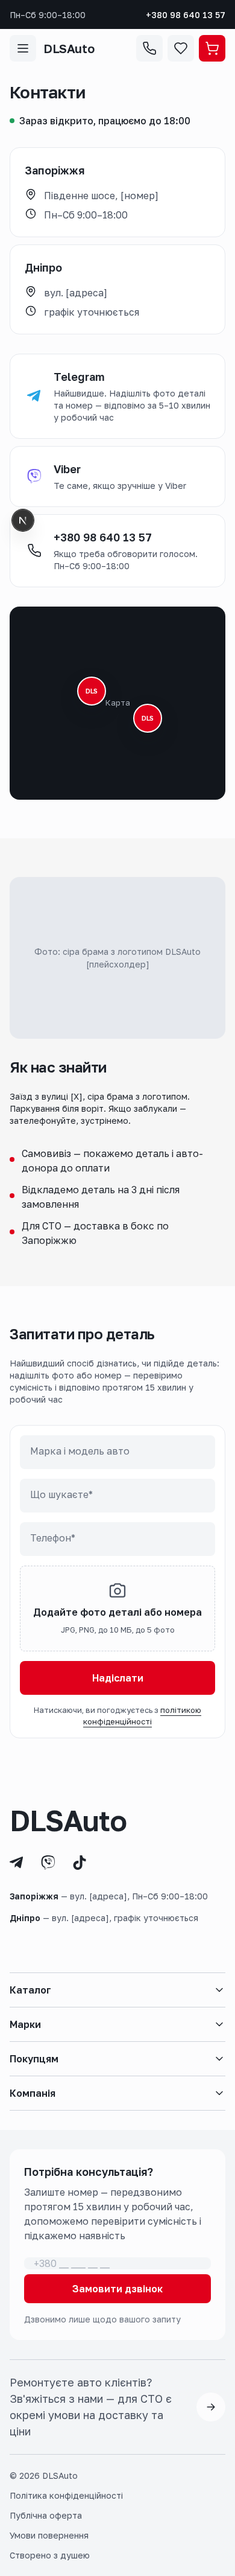
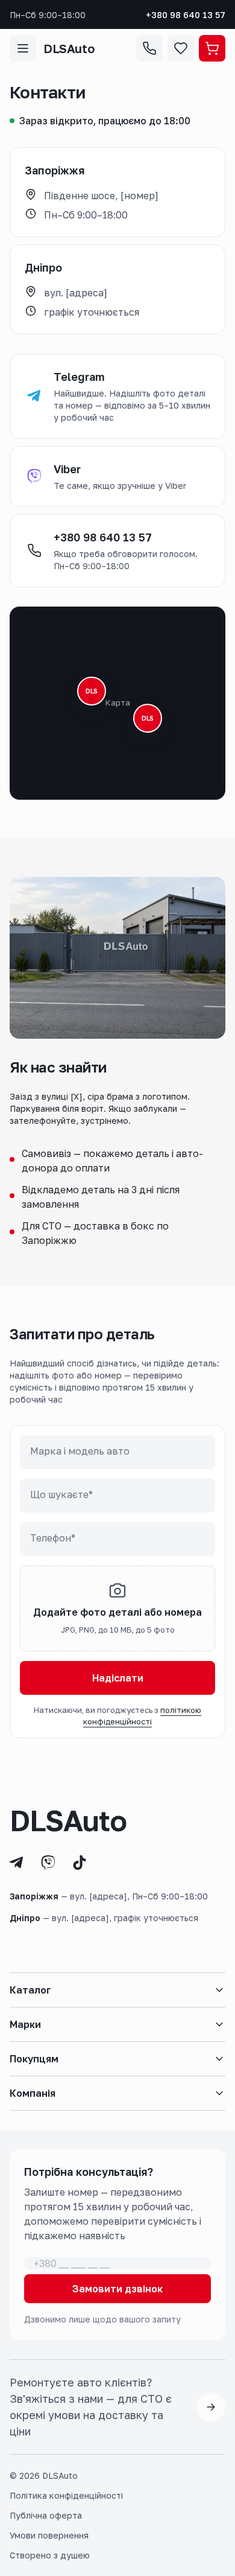
feat(contacts): use the real gate photo in "Як нас знайти"
The export's media is stored in Git LFS; the working copy only had 131-byte
pointers until `git lfs pull`. Materialise contacts-gate.jpg, copy it into
public/images (a normal blob per .gitattributes) and render it with next/image.
Regenerate the compare screenshots.

Changed region(s): [[0.0308, 0.3428, 0.9846, 0.4051], [0.0615, 0.187, 0.1538, 0.2181]]

diff --git a/src/app/(frontend)/[locale]/contacts/page.tsx b/src/app/(frontend)/[locale]/contacts/page.tsx
@@ -1,4 +1,5 @@
 import type { Metadata } from 'next'
+import Image from 'next/image'
 import { notFound } from 'next/navigation'
 
 import { ContactForm } from '@/components/blocks/ContactForm'
@@ -118,11 +119,13 @@ export default async function ContactsPage({ params }: { params: Promise<{ local
                 className="relative overflow-hidden"
                 style={{ aspectRatio: '4 / 3', borderRadius: 'var(--radius-lg)', background: 'var(--color-neutral-200)' }}
               >
-                <div className="absolute inset-0 flex items-center justify-center text-center" style={{ padding: 'var(--space-24)' }}>
-                  <span style={{ fontSize: 'var(--text-14)', color: 'var(--color-neutral-500)' }}>
-                    Фото: сіра брама з логотипом DLSAuto [плейсхолдер]
-                  </span>
-                </div>
+                <Image
+                  src="/images/contacts-gate.jpg"
+                  alt="Сіра брама з логотипом DLSAuto, вид з дороги"
+                  fill
+                  sizes="(min-width: 1024px) 50vw, 100vw"
+                  style={{ objectFit: 'cover' }}
+                />
               </div>
               <div className="flex min-w-0 flex-col">
                 <SectionHeading>Як нас знайти</SectionHeading>

diff --git a/docs/stages/STAGE_1_REPORT.md b/docs/stages/STAGE_1_REPORT.md
@@ -43,7 +43,7 @@
 ## Не зроблено і чому
 
 - **Жива карта** — заглушка за ТЗ; підключення через `src/integrations` в етапі далі. Дані Дніпра (адреса/графік) — плейсхолдери до відповіді клієнта.
-- **Фото воріт у «Як нас знайти»** — заглушка: в експорті всі зображення — 131-байтні стаби (`image-slot`), реального фото немає; лишається плейсхолдер до фото від клієнта.
+- **Фото воріт у «Як нас знайти»** — реальне (`public/images/contacts-gate.jpg`). Зображення експорту зберігаються в Git LFS; у робочій копії лежали 131-байтні вказівники, доки не виконано `git lfs pull`. Решта фото підтягується так само за потреби.
 - **Хедер:** чип «Обрати авто», бейдж порівняння та USP-рядок **не зроблені** — їх немає в рендері експорту на цих ширинах; обране є. Мега-меню — порожня обгортка (за ТЗ). Модалка «Замовити дзвінок» у хедері — кнопка-плейсхолдер (дію покриває форма у футері).
 - **Кошик-панель і лічильники** (fav/cart/compare з localStorage) — наступні етапи.
 - **i18n:** тексти UI — українські літерали; `/ru` і словник — бэклог.
